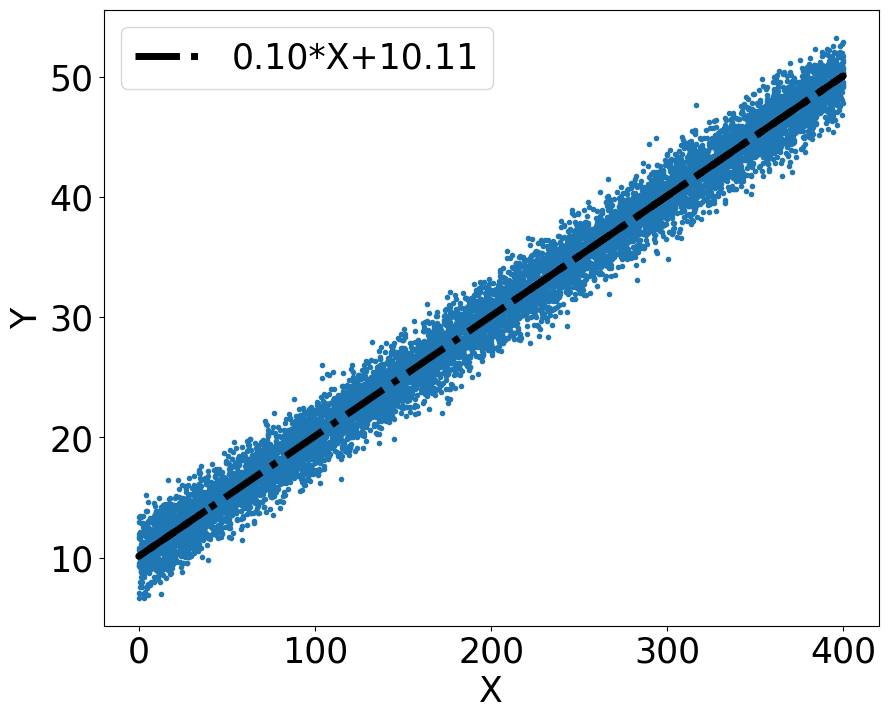
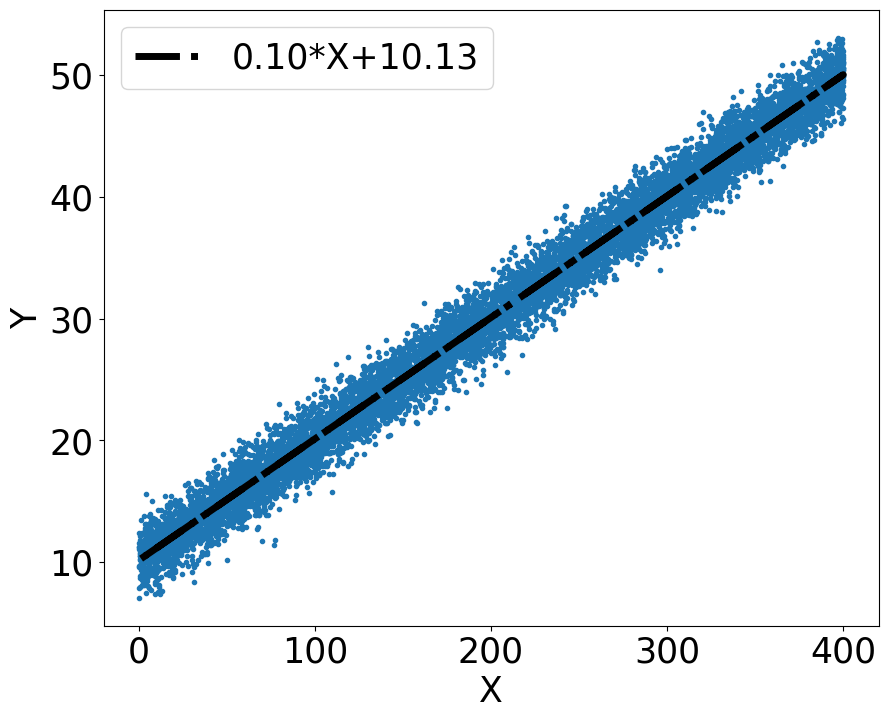
deploy: 6bc1f65af9dd7b9455ff7fe303a0d4857864a4cd

diff --git a/searchindex.js b/searchindex.js
@@ -1,1 +1,1 @@
-Search.setIndex({docnames:["content","examples/skcosmo-pcovr/README","examples/test_notebook/Test_linear_Fit","intro","markdown","notebooks"],envversion:{"sphinx.domains.c":2,"sphinx.domains.changeset":1,"sphinx.domains.citation":1,"sphinx.domains.cpp":5,"sphinx.domains.index":1,"sphinx.domains.javascript":2,"sphinx.domains.math":2,"sphinx.domains.python":3,"sphinx.domains.rst":2,"sphinx.domains.std":2,"sphinx.ext.intersphinx":1,"sphinxcontrib.bibtex":9,sphinx:56},filenames:["content.md","examples/skcosmo-pcovr/README.md","examples/test_notebook/Test_linear_Fit.ipynb","intro.md","markdown.md","notebooks.ipynb"],objects:{},objnames:{},objtypes:{},terms:{"0":[2,5],"09991685":2,"0x7f1a81c766a0":2,"0x7f3260fe1190":5,"1":[2,5],"10":[2,5],"100":5,"10000":2,"11150862":2,"19680801":5,"2":3,"2014":4,"25":2,"2f":2,"3":2,"4":5,"400":2,"5":[2,5],"8":2,"default":4,"do":[0,4,5],"function":4,"import":[2,5],"short":0,And:3,As:5,At:4,But:5,For:[4,5],If:4,In:4,It:4,The:[1,4],There:[0,4,5],about:[4,5],accept:4,add:[1,4],add_:5,again:4,align:5,all:4,allow:4,alreadi:4,also:[4,5],ani:4,anoth:4,ar:0,arrai:[2,5],associ:4,auditori:4,australia:4,ax:[2,5],begin:5,being:4,bib:4,bibliographi:4,bibtex:4,black:2,block:[3,4],book:[4,5],both:4,box:4,brian:4,brief:1,brisban:4,build:4,built:4,bundl:3,c:2,call:4,can:[4,5],cell:4,check:[3,5],christoph:4,cite:4,cm:5,cmap:5,code:3,cognit:4,cold:5,color:5,command:4,commonmark:4,complex:4,comput:4,confer:4,content:[3,4],contextlib:5,coolwarm:5,cortex:4,cosmo:1,cover:0,creat:5,custom_lin:5,cycler:5,d:4,data:5,de:4,defin:4,deg:2,depend:4,descript:1,differ:4,directli:4,displai:4,doc:4,document:[4,5],doe:1,doesn:4,dollar:5,e:3,ecosystem:4,emb:5,end:5,entir:4,escap:5,etc:5,evid:4,exampl:[4,5],exist:4,exitstack:5,extens:4,feel:3,few:0,fig:[2,5],figsiz:[2,5],first:4,fix:5,flavor:4,follow:4,font:2,format:2,from:5,frontier:4,give:3,guid:5,ha:4,hdhpk14:4,heer:4,here:[3,4,5],holdgraf:4,holdgraf_evidence_2014:4,host:1,hot:5,how:[0,3],html:5,human:4,ii:5,imag:5,includ:[4,5],inform:[4,5],init:4,inlin:2,input:4,insert:4,insid:4,interact:5,intern:4,intro:4,ion:5,ipynb:4,its:4,jupyt:[4,5],jupytext:4,keep:5,kernel:4,kind:4,knight:4,la_:5,label:2,languag:4,legend:[2,5],less:4,like:4,line2d:5,line:[4,5],link:1,linspac:5,ll:4,logspac:5,look:4,lot:5,ls:2,lw:[2,5],make:5,mani:[0,4],markedli:4,markup:4,math:5,matplotlib:[2,5],mbox:5,mc:3,md:4,mean:5,medium:5,metadata:4,more:[3,4,5],moreov:4,most:4,must:4,my:4,mydirectivenam:4,n:[4,5],name:4,nb:4,neurosci:4,note:[3,4],notebook:[1,4],np:[2,5],numpi:[2,5],onc:4,one:4,onli:4,out:[3,5],output:4,p:2,page:[3,4],paslei:4,path:4,pattern:4,plot:[2,5],plt:[2,5],polyfit:2,post:5,power:4,pre:4,predict:4,print:4,prop_cycl:5,properli:4,purpos:4,pyplot:[2,5],ramsai:4,rand:2,randn:[2,5],random:[2,5],rang:5,rcparam:[2,5],refer:4,regular:4,rel:4,render:4,repo:1,reproduc:5,rest:4,result:4,robert:4,rolenam:4,run:4,s:[4,5],same:4,sampl:[3,5],scikit:1,section:0,see:[3,4,5],seed:5,serv:4,set_xlabel:2,set_ylabel:2,sign:5,similar:4,simplest:4,size:2,slight:4,small:[3,4],so:[0,4],some:[4,5],span:4,specif:4,sphinx:4,stand:4,state:5,store:4,structur:[3,4],subplot:[2,5],sure:5,syntax:4,t:[4,5],tex:5,text:4,thei:4,thi:[0,1,3,4,5],those:4,time:4,tip:0,tool:4,two:4,updat:2,valid:4,variat:4,veri:4,wai:0,want:5,welcom:4,well:5,wendi:4,what:1,when:4,wherea:4,whether:4,which:4,work:[4,5],write:[0,4],written:4,x:2,y:2,y_p:2,you:[3,4,5],your:5},titles:["Content in Jupyter Book","skcosmo-PCOVR","&lt;no title&gt;","Welcome to your Jupyter Book","Markdown Files","Content with notebooks"],titleterms:{ad:4,ar:4,block:5,book:[0,3],citat:4,code:[4,5],content:[0,5],direct:4,execut:4,file:4,jupyt:[0,3],markdown:[4,5],myst:[4,5],notebook:5,output:5,pcovr:1,role:4,skcosmo:1,us:4,welcom:3,what:4,your:[3,4]}})
+Search.setIndex({docnames:["content","examples/skcosmo-pcovr/README","examples/test_notebook/Test_linear_Fit","intro","markdown","notebooks"],envversion:{"sphinx.domains.c":2,"sphinx.domains.changeset":1,"sphinx.domains.citation":1,"sphinx.domains.cpp":5,"sphinx.domains.index":1,"sphinx.domains.javascript":2,"sphinx.domains.math":2,"sphinx.domains.python":3,"sphinx.domains.rst":2,"sphinx.domains.std":2,"sphinx.ext.intersphinx":1,"sphinxcontrib.bibtex":9,sphinx:56},filenames:["content.md","examples/skcosmo-pcovr/README.md","examples/test_notebook/Test_linear_Fit.ipynb","intro.md","markdown.md","notebooks.ipynb"],objects:{},objnames:{},objtypes:{},terms:{"0":[2,5],"09979093":2,"0x7f5520880eb0":2,"0x7fddff2e7370":5,"1":[2,5],"10":[2,5],"100":5,"10000":2,"12922917":2,"19680801":5,"2":3,"2014":4,"25":2,"2f":2,"3":2,"4":5,"400":2,"5":[2,5],"8":2,"default":4,"do":[0,4,5],"function":4,"import":[2,5],"short":0,And:3,As:5,At:4,But:5,For:[4,5],If:4,In:4,It:4,The:[1,4],There:[0,4,5],about:[4,5],accept:4,add:[1,4],add_:5,again:4,align:5,all:4,allow:4,alreadi:4,also:[4,5],ani:4,anoth:4,ar:0,arrai:[2,5],associ:4,auditori:4,australia:4,ax:[2,5],begin:5,being:4,bib:4,bibliographi:4,bibtex:4,black:2,block:[3,4],book:[4,5],both:4,box:4,brian:4,brief:1,brisban:4,build:4,built:4,bundl:3,c:2,call:4,can:[4,5],cell:4,check:[3,5],christoph:4,cite:4,cm:5,cmap:5,code:3,cognit:4,cold:5,color:5,command:4,commonmark:4,complex:4,comput:4,confer:4,content:[3,4],contextlib:5,coolwarm:5,cortex:4,cosmo:1,cover:0,creat:5,custom_lin:5,cycler:5,d:4,data:5,de:4,defin:4,deg:2,depend:4,descript:1,differ:4,directli:4,displai:4,doc:4,document:[4,5],doe:1,doesn:4,dollar:5,e:3,ecosystem:4,emb:5,end:5,entir:4,escap:5,etc:5,evid:4,exampl:[4,5],exist:4,exitstack:5,extens:4,feel:3,few:0,fig:[2,5],figsiz:[2,5],first:4,fix:5,flavor:4,follow:4,font:2,format:2,from:5,frontier:4,give:3,guid:5,ha:4,hdhpk14:4,heer:4,here:[3,4,5],holdgraf:4,holdgraf_evidence_2014:4,host:1,hot:5,how:[0,3],html:5,human:4,ii:5,imag:5,includ:[4,5],inform:[4,5],init:4,inlin:2,input:4,insert:4,insid:4,interact:5,intern:4,intro:4,ion:5,ipynb:4,its:4,jupyt:[4,5],jupytext:4,keep:5,kernel:4,kind:4,knight:4,la_:5,label:2,languag:4,legend:[2,5],less:4,like:4,line2d:5,line:[4,5],link:1,linspac:5,ll:4,logspac:5,look:4,lot:5,ls:2,lw:[2,5],make:5,mani:[0,4],markedli:4,markup:4,math:5,matplotlib:[2,5],mbox:5,mc:3,md:4,mean:5,medium:5,metadata:4,more:[3,4,5],moreov:4,most:4,must:4,my:4,mydirectivenam:4,n:[4,5],name:4,nb:4,neurosci:4,note:[3,4],notebook:[1,4],np:[2,5],numpi:[2,5],onc:4,one:4,onli:4,out:[3,5],output:4,p:2,page:[3,4],paslei:4,path:4,pattern:4,plot:[2,5],plt:[2,5],polyfit:2,post:5,power:4,pre:4,predict:4,print:4,prop_cycl:5,properli:4,purpos:4,pyplot:[2,5],ramsai:4,rand:2,randn:[2,5],random:[2,5],rang:5,rcparam:[2,5],refer:4,regular:4,rel:4,render:4,repo:1,reproduc:5,rest:4,result:4,robert:4,rolenam:4,run:4,s:[4,5],same:4,sampl:[3,5],scikit:1,section:0,see:[3,4,5],seed:5,serv:4,set_xlabel:2,set_ylabel:2,sign:5,similar:4,simplest:4,size:2,slight:4,small:[3,4],so:[0,4],some:[4,5],span:4,specif:4,sphinx:4,stand:4,state:5,store:4,structur:[3,4],subplot:[2,5],sure:5,syntax:4,t:[4,5],tex:5,text:4,thei:4,thi:[0,1,3,4,5],those:4,time:4,tip:0,tool:4,two:4,updat:2,valid:4,variat:4,veri:4,wai:0,want:5,welcom:4,well:5,wendi:4,what:1,when:4,wherea:4,whether:4,which:4,work:[4,5],write:[0,4],written:4,x:2,y:2,y_p:2,you:[3,4,5],your:5},titles:["Content in Jupyter Book","skcosmo-PCOVR","&lt;no title&gt;","Welcome to your Jupyter Book","Markdown Files","Content with notebooks"],titleterms:{ad:4,ar:4,block:5,book:[0,3],citat:4,code:[4,5],content:[0,5],direct:4,execut:4,file:4,jupyt:[0,3],markdown:[4,5],myst:[4,5],notebook:5,output:5,pcovr:1,role:4,skcosmo:1,us:4,welcom:3,what:4,your:[3,4]}})

diff --git a/notebooks.html b/notebooks.html
@@ -425,39 +425,39 @@ or see <a class="reference external" href="https://myst-parser.readthedocs.io/en
 For example, here’s some sample Matplotlib code:</p>
 <div class="cell docutils container">
 <div class="cell_input docutils container">
-<div class="highlight-ipython3 notranslate"><div class="highlight"><pre><span></span><span class="kn">from</span> <span class="nn">matplotlib</span> <span class="kn">import</span> <span class="n">rcParams</span><span class="p">,</span> <span class="n">cycler</span>
-<span class="kn">import</span> <span class="nn">matplotlib.pyplot</span> <span class="k">as</span> <span class="nn">plt</span>
-<span class="kn">import</span> <span class="nn">numpy</span> <span class="k">as</span> <span class="nn">np</span>
-<span class="n">plt</span><span class="o">.</span><span class="n">ion</span><span class="p">()</span>
+<div class="highlight-ipython3 notranslate"><div class="highlight"><pre><span></span>from matplotlib import rcParams, cycler
+import matplotlib.pyplot as plt
+import numpy as np
+plt.ion()
 </pre></div>
 </div>
 </div>
 <div class="cell_output docutils container">
-<div class="output text_plain highlight-myst-ansi notranslate"><div class="highlight"><pre><span></span>&lt;contextlib.ExitStack at 0x7f3260fe1190&gt;
+<div class="output text_plain highlight-myst-ansi notranslate"><div class="highlight"><pre><span></span>&lt;contextlib.ExitStack at 0x7fddff2e7370&gt;
 </pre></div>
 </div>
 </div>
 </div>
 <div class="cell docutils container">
 <div class="cell_input docutils container">
-<div class="highlight-ipython3 notranslate"><div class="highlight"><pre><span></span><span class="c1"># Fixing random state for reproducibility</span>
-<span class="n">np</span><span class="o">.</span><span class="n">random</span><span class="o">.</span><span class="n">seed</span><span class="p">(</span><span class="mi">19680801</span><span class="p">)</span>
+<div class="highlight-ipython3 notranslate"><div class="highlight"><pre><span></span># Fixing random state for reproducibility
+np.random.seed(19680801)
 
-<span class="n">N</span> <span class="o">=</span> <span class="mi">10</span>
-<span class="n">data</span> <span class="o">=</span> <span class="p">[</span><span class="n">np</span><span class="o">.</span><span class="n">logspace</span><span class="p">(</span><span class="mi">0</span><span class="p">,</span> <span class="mi">1</span><span class="p">,</span> <span class="mi">100</span><span class="p">)</span> <span class="o">+</span> <span class="n">np</span><span class="o">.</span><span class="n">random</span><span class="o">.</span><span class="n">randn</span><span class="p">(</span><span class="mi">100</span><span class="p">)</span> <span class="o">+</span> <span class="n">ii</span> <span class="k">for</span> <span class="n">ii</span> <span class="ow">in</span> <span class="nb">range</span><span class="p">(</span><span class="n">N</span><span class="p">)]</span>
-<span class="n">data</span> <span class="o">=</span> <span class="n">np</span><span class="o">.</span><span class="n">array</span><span class="p">(</span><span class="n">data</span><span class="p">)</span><span class="o">.</span><span class="n">T</span>
-<span class="n">cmap</span> <span class="o">=</span> <span class="n">plt</span><span class="o">.</span><span class="n">cm</span><span class="o">.</span><span class="n">coolwarm</span>
-<span class="n">rcParams</span><span class="p">[</span><span class="s1">&#39;axes.prop_cycle&#39;</span><span class="p">]</span> <span class="o">=</span> <span class="n">cycler</span><span class="p">(</span><span class="n">color</span><span class="o">=</span><span class="n">cmap</span><span class="p">(</span><span class="n">np</span><span class="o">.</span><span class="n">linspace</span><span class="p">(</span><span class="mi">0</span><span class="p">,</span> <span class="mi">1</span><span class="p">,</span> <span class="n">N</span><span class="p">)))</span>
+N = 10
+data = [np.logspace(0, 1, 100) + np.random.randn(100) + ii for ii in range(N)]
+data = np.array(data).T
+cmap = plt.cm.coolwarm
+rcParams[&#39;axes.prop_cycle&#39;] = cycler(color=cmap(np.linspace(0, 1, N)))
 
 
-<span class="kn">from</span> <span class="nn">matplotlib.lines</span> <span class="kn">import</span> <span class="n">Line2D</span>
-<span class="n">custom_lines</span> <span class="o">=</span> <span class="p">[</span><span class="n">Line2D</span><span class="p">([</span><span class="mi">0</span><span class="p">],</span> <span class="p">[</span><span class="mi">0</span><span class="p">],</span> <span class="n">color</span><span class="o">=</span><span class="n">cmap</span><span class="p">(</span><span class="mf">0.</span><span class="p">),</span> <span class="n">lw</span><span class="o">=</span><span class="mi">4</span><span class="p">),</span>
-                <span class="n">Line2D</span><span class="p">([</span><span class="mi">0</span><span class="p">],</span> <span class="p">[</span><span class="mi">0</span><span class="p">],</span> <span class="n">color</span><span class="o">=</span><span class="n">cmap</span><span class="p">(</span><span class="mf">.5</span><span class="p">),</span> <span class="n">lw</span><span class="o">=</span><span class="mi">4</span><span class="p">),</span>
-                <span class="n">Line2D</span><span class="p">([</span><span class="mi">0</span><span class="p">],</span> <span class="p">[</span><span class="mi">0</span><span class="p">],</span> <span class="n">color</span><span class="o">=</span><span class="n">cmap</span><span class="p">(</span><span class="mf">1.</span><span class="p">),</span> <span class="n">lw</span><span class="o">=</span><span class="mi">4</span><span class="p">)]</span>
+from matplotlib.lines import Line2D
+custom_lines = [Line2D([0], [0], color=cmap(0.), lw=4),
+                Line2D([0], [0], color=cmap(.5), lw=4),
+                Line2D([0], [0], color=cmap(1.), lw=4)]
 
-<span class="n">fig</span><span class="p">,</span> <span class="n">ax</span> <span class="o">=</span> <span class="n">plt</span><span class="o">.</span><span class="n">subplots</span><span class="p">(</span><span class="n">figsize</span><span class="o">=</span><span class="p">(</span><span class="mi">10</span><span class="p">,</span> <span class="mi">5</span><span class="p">))</span>
-<span class="n">lines</span> <span class="o">=</span> <span class="n">ax</span><span class="o">.</span><span class="n">plot</span><span class="p">(</span><span class="n">data</span><span class="p">)</span>
-<span class="n">ax</span><span class="o">.</span><span class="n">legend</span><span class="p">(</span><span class="n">custom_lines</span><span class="p">,</span> <span class="p">[</span><span class="s1">&#39;Cold&#39;</span><span class="p">,</span> <span class="s1">&#39;Medium&#39;</span><span class="p">,</span> <span class="s1">&#39;Hot&#39;</span><span class="p">]);</span>
+fig, ax = plt.subplots(figsize=(10, 5))
+lines = ax.plot(data)
+ax.legend(custom_lines, [&#39;Cold&#39;, &#39;Medium&#39;, &#39;Hot&#39;]);
 </pre></div>
 </div>
 </div>

diff --git a/examples/test_notebook/Test_linear_Fit.html b/examples/test_notebook/Test_linear_Fit.html
@@ -359,56 +359,56 @@ title="Print to PDF"
                 
   <div class="cell docutils container">
 <div class="cell_input docutils container">
-<div class="highlight-ipython3 notranslate"><div class="highlight"><pre><span></span><span class="kn">import</span> <span class="nn">numpy</span> <span class="k">as</span> <span class="nn">np</span> 
-<span class="kn">import</span> <span class="nn">matplotlib.pyplot</span> <span class="k">as</span> <span class="nn">plt</span>
+<div class="highlight-ipython3 notranslate"><div class="highlight"><pre><span></span>import numpy as np 
+import matplotlib.pyplot as plt
 </pre></div>
 </div>
 </div>
 </div>
 <div class="cell docutils container">
 <div class="cell_input docutils container">
-<div class="highlight-ipython3 notranslate"><div class="highlight"><pre><span></span><span class="n">X</span> <span class="o">=</span> <span class="n">np</span><span class="o">.</span><span class="n">random</span><span class="o">.</span><span class="n">rand</span><span class="p">(</span><span class="mi">10000</span><span class="p">)</span><span class="o">*</span><span class="mi">400</span>
-<span class="n">Y</span> <span class="o">=</span> <span class="mf">0.1</span><span class="o">*</span><span class="n">X</span><span class="o">+</span><span class="mf">10.1</span>
-<span class="n">Y_p</span> <span class="o">=</span> <span class="n">Y</span> <span class="o">+</span> <span class="n">np</span><span class="o">.</span><span class="n">random</span><span class="o">.</span><span class="n">randn</span><span class="p">(</span><span class="mi">10000</span><span class="p">)</span><span class="o">*</span><span class="mf">1.5</span>
+<div class="highlight-ipython3 notranslate"><div class="highlight"><pre><span></span>X = np.random.rand(10000)*400
+Y = 0.1*X+10.1
+Y_p = Y + np.random.randn(10000)*1.5
 </pre></div>
 </div>
 </div>
 </div>
 <div class="cell docutils container">
 <div class="cell_input docutils container">
-<div class="highlight-ipython3 notranslate"><div class="highlight"><pre><span></span><span class="n">p</span> <span class="o">=</span> <span class="n">np</span><span class="o">.</span><span class="n">polyfit</span><span class="p">(</span><span class="n">X</span><span class="p">,</span><span class="n">Y_p</span><span class="p">,</span><span class="n">deg</span><span class="o">=</span><span class="mi">1</span><span class="p">)</span>
+<div class="highlight-ipython3 notranslate"><div class="highlight"><pre><span></span>p = np.polyfit(X,Y_p,deg=1)
 </pre></div>
 </div>
 </div>
 </div>
 <div class="cell docutils container">
 <div class="cell_input docutils container">
-<div class="highlight-ipython3 notranslate"><div class="highlight"><pre><span></span><span class="n">p</span>
+<div class="highlight-ipython3 notranslate"><div class="highlight"><pre><span></span>p
 </pre></div>
 </div>
 </div>
 <div class="cell_output docutils container">
-<div class="output text_plain highlight-myst-ansi notranslate"><div class="highlight"><pre><span></span>array([ 0.09991685, 10.11150862])
+<div class="output text_plain highlight-myst-ansi notranslate"><div class="highlight"><pre><span></span>array([ 0.09979093, 10.12922917])
 </pre></div>
 </div>
 </div>
 </div>
 <div class="cell docutils container">
 <div class="cell_input docutils container">
-<div class="highlight-ipython3 notranslate"><div class="highlight"><pre><span></span><span class="o">%</span><span class="k">matplotlib</span> inline
-<span class="n">plt</span><span class="o">.</span><span class="n">rcParams</span><span class="o">.</span><span class="n">update</span><span class="p">({</span><span class="s1">&#39;font.size&#39;</span><span class="p">:</span> <span class="mi">25</span><span class="p">})</span>
-<span class="n">fig</span> <span class="p">,</span> <span class="n">ax</span> <span class="o">=</span><span class="n">plt</span><span class="o">.</span><span class="n">subplots</span><span class="p">(</span><span class="mi">1</span><span class="p">,</span><span class="n">figsize</span><span class="o">=</span><span class="p">(</span><span class="mi">10</span><span class="p">,</span><span class="mi">8</span><span class="p">))</span>
-<span class="n">ax</span><span class="o">.</span><span class="n">set_ylabel</span><span class="p">(</span><span class="s1">&#39;Y&#39;</span><span class="p">)</span>
-<span class="n">ax</span><span class="o">.</span><span class="n">set_xlabel</span><span class="p">(</span><span class="s1">&#39;X&#39;</span><span class="p">)</span>
+<div class="highlight-ipython3 notranslate"><div class="highlight"><pre><span></span>%matplotlib inline
+plt.rcParams.update({&#39;font.size&#39;: 25})
+fig , ax =plt.subplots(1,figsize=(10,8))
+ax.set_ylabel(&#39;Y&#39;)
+ax.set_xlabel(&#39;X&#39;)
 
-<span class="n">ax</span><span class="o">.</span><span class="n">plot</span><span class="p">(</span><span class="n">X</span><span class="p">,</span><span class="n">Y_p</span><span class="p">,</span><span class="s1">&#39;.&#39;</span><span class="p">)</span>
-<span class="n">ax</span><span class="o">.</span><span class="n">plot</span><span class="p">(</span><span class="n">X</span><span class="p">,</span><span class="n">p</span><span class="p">[</span><span class="mi">0</span><span class="p">]</span><span class="o">*</span><span class="n">X</span><span class="o">+</span><span class="n">p</span><span class="p">[</span><span class="mi">1</span><span class="p">],</span><span class="n">lw</span><span class="o">=</span><span class="mi">5</span><span class="p">,</span><span class="n">ls</span><span class="o">=</span><span class="s1">&#39;-.&#39;</span><span class="p">,</span><span class="n">c</span><span class="o">=</span><span class="s1">&#39;black&#39;</span><span class="p">,</span><span class="n">label</span><span class="o">=</span><span class="s1">&#39;</span><span class="si">{:3.2f}</span><span class="s1">*X+</span><span class="si">{:3.2f}</span><span class="s1">&#39;</span><span class="o">.</span><span class="n">format</span><span class="p">(</span><span class="n">p</span><span class="p">[</span><span class="mi">0</span><span class="p">],</span><span class="n">p</span><span class="p">[</span><span class="mi">1</span><span class="p">]))</span>
-<span class="n">ax</span><span class="o">.</span><span class="n">legend</span><span class="p">()</span>
+ax.plot(X,Y_p,&#39;.&#39;)
+ax.plot(X,p[0]*X+p[1],lw=5,ls=&#39;-.&#39;,c=&#39;black&#39;,label=&#39;{:3.2f}*X+{:3.2f}&#39;.format(p[0],p[1]))
+ax.legend()
 </pre></div>
 </div>
 </div>
 <div class="cell_output docutils container">
-<div class="output text_plain highlight-myst-ansi notranslate"><div class="highlight"><pre><span></span>&lt;matplotlib.legend.Legend at 0x7f1a81c766a0&gt;
+<div class="output text_plain highlight-myst-ansi notranslate"><div class="highlight"><pre><span></span>&lt;matplotlib.legend.Legend at 0x7f5520880eb0&gt;
 </pre></div>
 </div>
 <img alt="../../_images/Test_linear_Fit_4_1.png" src="../../_images/Test_linear_Fit_4_1.png" />

diff --git a/_static/copybutton.js b/_static/copybutton.js
@@ -102,18 +102,25 @@ const clearSelection = () => {
   }
 }
 
-// Changes tooltip text for two seconds, then changes it back
+// Changes tooltip text for a moment, then changes it back
+// We want the timeout of our `success` class to be a bit shorter than the
+// tooltip and icon change, so that we can hide the icon before changing back.
+var timeoutIcon = 2000;
+var timeoutSuccessClass = 1500;
+
 const temporarilyChangeTooltip = (el, oldText, newText) => {
   el.setAttribute('data-tooltip', newText)
   el.classList.add('success')
-  setTimeout(() => el.setAttribute('data-tooltip', oldText), 2000)
-  setTimeout(() => el.classList.remove('success'), 2000)
+  // Remove success a little bit sooner than we change the tooltip
+  // So that we can use CSS to hide the copybutton first
+  setTimeout(() => el.classList.remove('success'), timeoutSuccessClass)
+  setTimeout(() => el.setAttribute('data-tooltip', oldText), timeoutIcon)
 }
 
 // Changes the copy button icon for two seconds, then changes it back
 const temporarilyChangeIcon = (el) => {
   el.innerHTML = iconCheck;
-  setTimeout(() => {el.innerHTML = iconCopy}, 2000)
+  setTimeout(() => {el.innerHTML = iconCopy}, timeoutIcon)
 }
 
 const addCopyButtonToCodeCells = () => {
@@ -125,7 +132,8 @@ const addCopyButtonToCodeCells = () => {
   }
 
   // Add copybuttons to all of our code cells
-  const codeCells = document.querySelectorAll('div.highlight pre')
+  const COPYBUTTON_SELECTOR = 'div.highlight pre';
+  const codeCells = document.querySelectorAll(COPYBUTTON_SELECTOR)
   codeCells.forEach((codeCell, index) => {
     const id = codeCellId(index)
     codeCell.setAttribute('id', id)
@@ -141,10 +149,25 @@ function escapeRegExp(string) {
     return string.replace(/[.*+?^${}()|[\]\\]/g, '\\$&'); // $& means the whole matched string
 }
 
+/**
+ * Removes excluded text from a Node.
+ *
+ * @param {Node} target Node to filter.
+ * @param {string} exclude CSS selector of nodes to exclude.
+ * @returns {DOMString} Text from `target` with text removed.
+ */
+function filterText(target, exclude) {
+    const clone = target.cloneNode(true);  // clone as to not modify the live DOM
+    if (exclude) {
+        // remove excluded nodes
+        clone.querySelectorAll(exclude).forEach(node => node.remove());
+    }
+    return clone.innerText;
+}
+
 // Callback when a copy button is clicked. Will be passed the node that was clicked
 // should then grab the text and replace pieces of text that shouldn't be used in output
 function formatCopyText(textContent, copybuttonPromptText, isRegexp = false, onlyCopyPromptLines = true, removePrompts = true, copyEmptyLines = true, lineContinuationChar = "", hereDocDelim = "") {
-
     var regexp;
     var match;
 
@@ -199,7 +222,12 @@ function formatCopyText(textContent, copybuttonPromptText, isRegexp = false, onl
 
 var copyTargetText = (trigger) => {
   var target = document.querySelector(trigger.attributes['data-clipboard-target'].value);
-  return formatCopyText(target.innerText, '', false, true, true, true, '', '')
+
+  // get filtered text
+  let exclude = '.linenos, .gp';
+
+  let text = filterText(target, exclude);
+  return formatCopyText(text, '', false, true, true, true, '', '')
 }
 
   // Initialize with a callback so we can modify the text before copy

diff --git a/_static/copybutton_funcs.js b/_static/copybutton_funcs.js
@@ -2,10 +2,25 @@ function escapeRegExp(string) {
     return string.replace(/[.*+?^${}()|[\]\\]/g, '\\$&'); // $& means the whole matched string
 }
 
+/**
+ * Removes excluded text from a Node.
+ *
+ * @param {Node} target Node to filter.
+ * @param {string} exclude CSS selector of nodes to exclude.
+ * @returns {DOMString} Text from `target` with text removed.
+ */
+export function filterText(target, exclude) {
+    const clone = target.cloneNode(true);  // clone as to not modify the live DOM
+    if (exclude) {
+        // remove excluded nodes
+        clone.querySelectorAll(exclude).forEach(node => node.remove());
+    }
+    return clone.innerText;
+}
+
 // Callback when a copy button is clicked. Will be passed the node that was clicked
 // should then grab the text and replace pieces of text that shouldn't be used in output
 export function formatCopyText(textContent, copybuttonPromptText, isRegexp = false, onlyCopyPromptLines = true, removePrompts = true, copyEmptyLines = true, lineContinuationChar = "", hereDocDelim = "") {
-
     var regexp;
     var match;
 

diff --git a/_static/copybutton.css b/_static/copybutton.css
@@ -35,7 +35,8 @@ div.highlight  {
     position: relative;
 }
 
-.highlight:hover button.copybtn {
+/* Show the copybutton */
+.highlight:hover button.copybtn, button.copybtn.success {
 	opacity: 1;
 }
 
